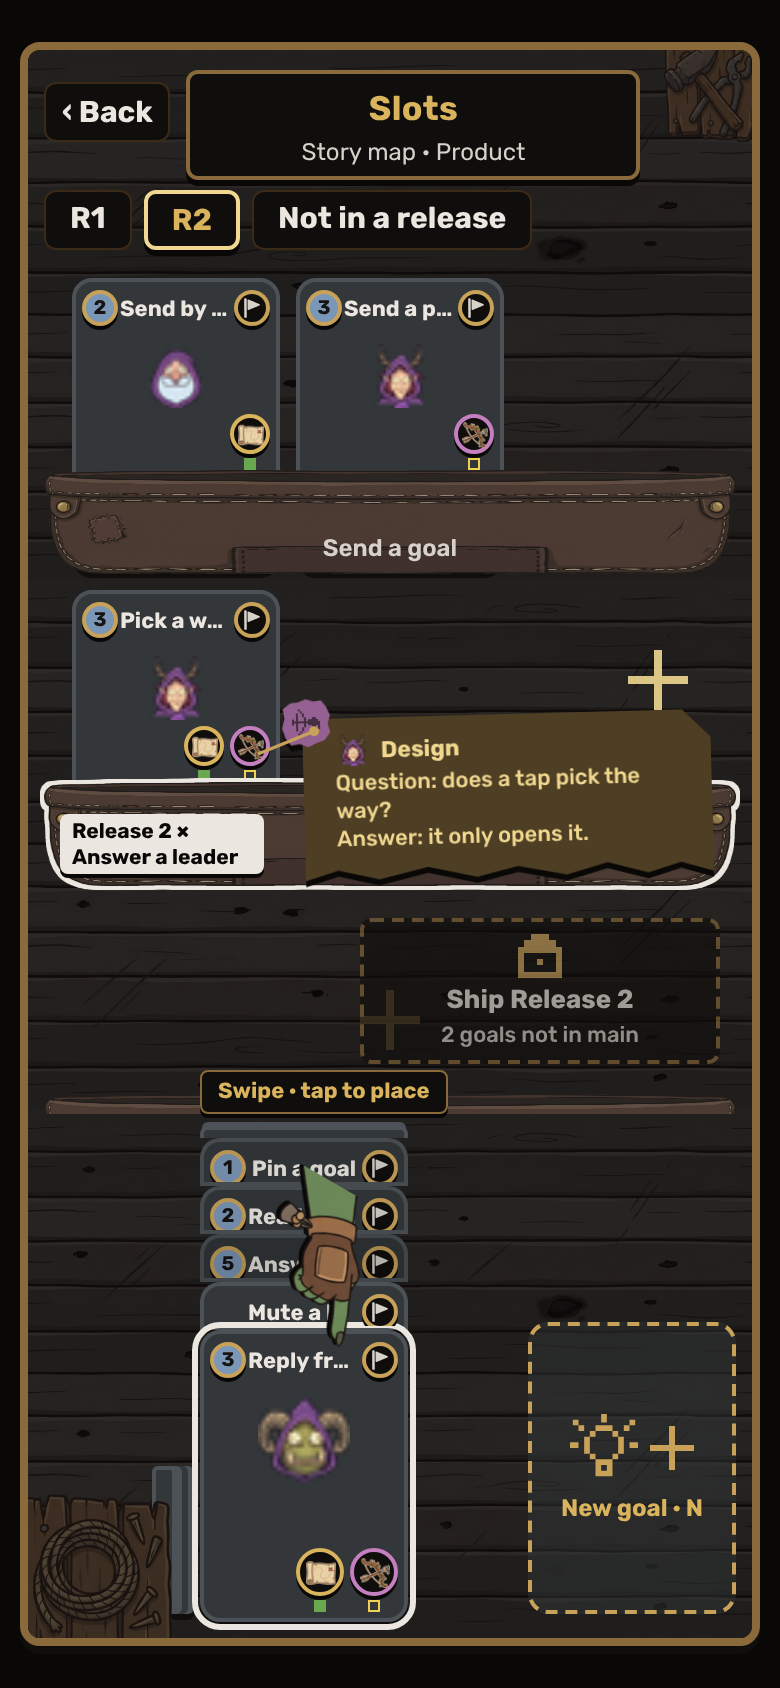
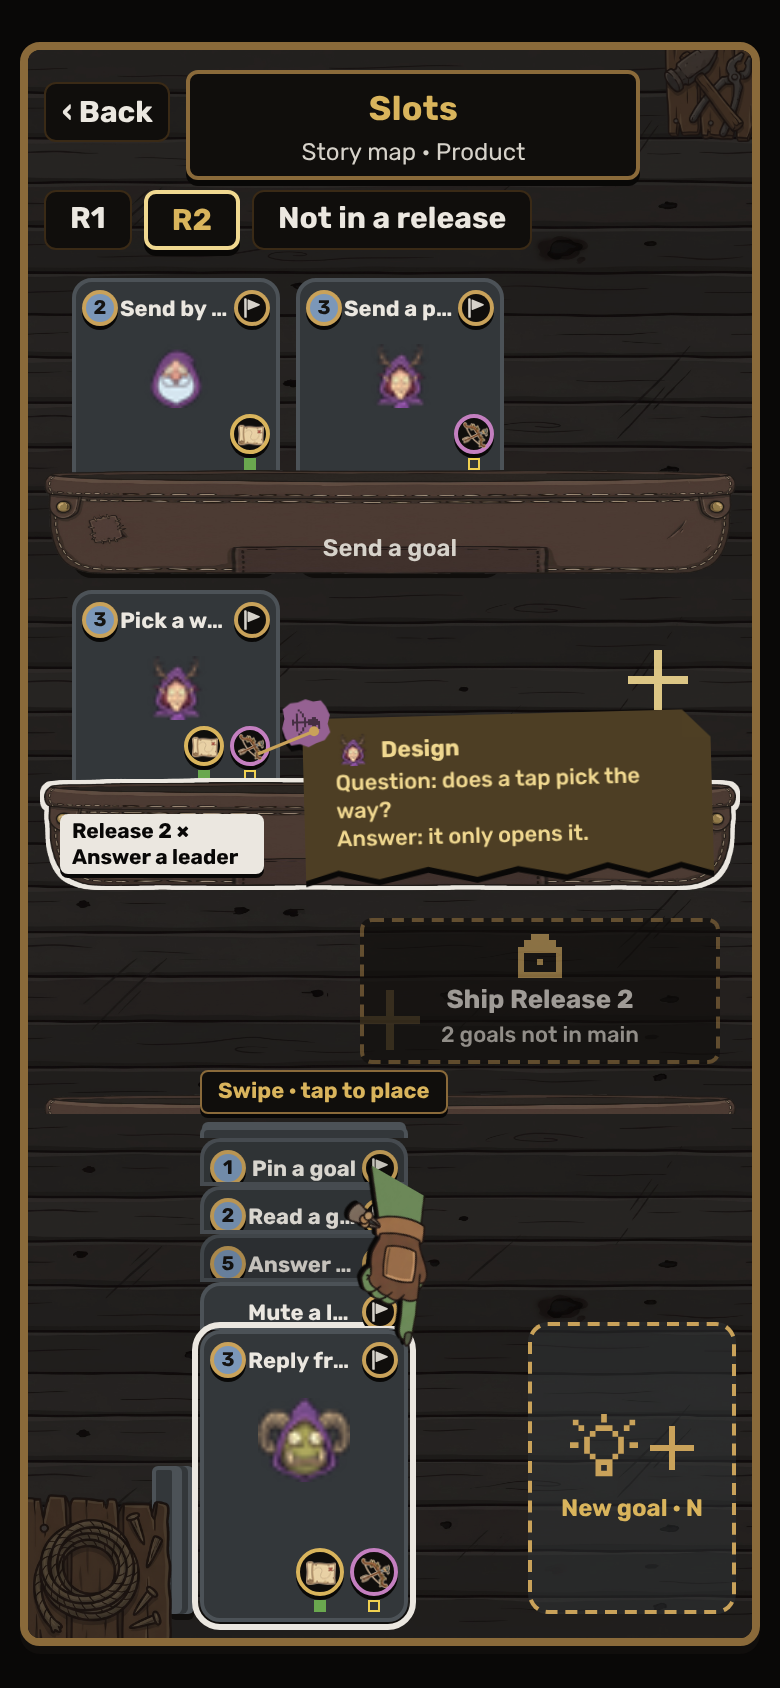
Mat mockups round 7, work in progress
Claude-Session: https://claude.ai/code/session_01MCU3dnmwpxzAdFr5WE7TTZ

Changed region(s): [[0.3385, 0.6777, 0.5538, 0.8009]]

diff --git a/docs/mockups/mat-scenes/scheme.html b/docs/mockups/mat-scenes/scheme.html
@@ -218,7 +218,7 @@ body[data-face="phone"] .undoplate small { font-size: 10px; line-height: 12px; }
 .bar .cs .card:nth-child(odd) { rotate: -1.5deg; } .bar .cs .card:nth-child(even) { rotate: 1deg; }
 .card.front, .bar .cs .card.front { }
 body[data-state="pick"] .fc .card { outline: 3px solid var(--ork-ink); outline-offset: 1px; }
-.finger { display: none; position: absolute; left: 26px; top: -67px; width: 70px; z-index: 12; rotate: 120deg; pointer-events: none; filter: drop-shadow(0 2px 0 var(--ork-room)); }
+.finger { display: none; position: absolute; left: 60px; top: -67px; width: 70px; z-index: 12; rotate: 120deg; pointer-events: none; filter: drop-shadow(0 2px 0 var(--ork-room)); }
 body[data-state="pick"] .finger { display: block; }
 body[data-state="pick"] .handbtn, body[data-state="pick"] .poseline, body[data-state="pick"] .chips { display: none; }
 .pickblank { display: none; position: absolute; z-index: 30; right: 26px; bottom: 12px; }

diff --git a/docs/mockups/mat-scenes/slots.html b/docs/mockups/mat-scenes/slots.html
@@ -219,7 +219,7 @@ body[data-face="phone"] .undoplate small { font-size: 10px; line-height: 12px; }
 .bar .cs .card:nth-child(odd) { rotate: -1.5deg; } .bar .cs .card:nth-child(even) { rotate: 1deg; }
 .card.front, .bar .cs .card.front { }
 body[data-state="pick"] .fc .card { outline: 3px solid var(--ork-ink); outline-offset: 1px; }
-.finger { display: none; position: absolute; left: 26px; top: -67px; width: 70px; z-index: 12; rotate: 120deg; pointer-events: none; filter: drop-shadow(0 2px 0 var(--ork-room)); }
+.finger { display: none; position: absolute; left: 60px; top: -67px; width: 70px; z-index: 12; rotate: 120deg; pointer-events: none; filter: drop-shadow(0 2px 0 var(--ork-room)); }
 body[data-state="pick"] .finger { display: block; }
 body[data-state="pick"] .handbtn, body[data-state="pick"] .poseline, body[data-state="pick"] .chips { display: none; }
 .pickblank { display: none; position: absolute; z-index: 30; right: 26px; bottom: 12px; }

diff --git a/docs/mockups/mat-scenes/choice.html b/docs/mockups/mat-scenes/choice.html
@@ -210,8 +210,8 @@ body[data-face="phone"] { --tile: 280px 280px; }
 .grid { position: absolute; left: 540px; top: 210px; width: 252px; display: grid; grid-template-columns: 104px 104px; gap: 28px 44px; z-index: 3; }
 .grid .card { overflow: visible; }
 .grid .note { left: calc(100% + 26px); top: 116px; --thl: 26px; }
-.way .hd { width: 30px; height: 30px; }
-.way b.t { font-size: 11px; line-height: 13px; }
+.way .hd { width: 24px; height: 24px; margin-top: 1px; }
+.way b.t { font-size: 11px; line-height: 12px; margin-top: 2px; }
 body[data-face="phone"] .view { top: 76px; left: 6px; right: 8px; width: auto; translate: none; padding: 5px 8px 6px; }
 body[data-face="phone"] .view .lab { display: none; }
 body[data-face="phone"] .box { padding: 2px 6px; font-size: 11px; line-height: 15px; }
